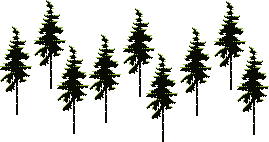
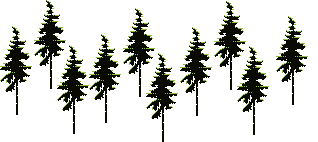
- control highlight sprites in scene

diff --git a/Assets/Scripts/Effects/LightsManager.cs b/Assets/Scripts/Effects/LightsManager.cs
@@ -1,0 +1,46 @@
+using System.Collections;
+using System.Collections.Generic;
+using UnityEngine;
+
+public class LightsManager : MonoBehaviour
+{
+    [SerializeField]
+    private List<SpriteRenderer> lights = default;
+
+    [Header("Fade Params")]
+    [SerializeField]
+    private float speed = default;
+
+    [SerializeField]
+    private float minAlpha = default;
+
+    [SerializeField]
+    private float maxAlpha = default;
+
+    [SerializeField]
+    private float offsetTime = default;
+
+    [SerializeField]
+    private bool snapAlpha = false;
+
+    [SerializeField]
+    private float snapIncrement = 0f;
+
+    private void Update()
+    {
+        float sine = (Mathf.Sin((Time.time * speed) + offsetTime) * 0.5f) + 0.5f;
+        float alpha = minAlpha + ((maxAlpha - minAlpha) * sine);
+
+        if (snapAlpha)
+        {
+            alpha = Mathf.Round(alpha / snapIncrement) * snapIncrement;
+        }
+
+        foreach (SpriteRenderer light in lights)
+        {
+            Color newColor = light.color;
+            newColor.a = alpha;
+            light.color = newColor;
+        }
+    }
+}

diff --git a/Assets/Scripts/Base/Animation/SineWaveAlpha.cs b/Assets/Scripts/Base/Animation/SineWaveAlpha.cs
@@ -1,0 +1,39 @@
+using System.Collections;
+using System.Collections.Generic;
+using UnityEngine;
+
+public class SineWaveAlpha : MonoBehaviour
+{
+    [SerializeField]
+    private float speed = default;
+
+    [SerializeField]
+    private float minAlpha = default;
+
+    [SerializeField]
+    private float maxAlpha = default;
+
+    [SerializeField]
+    private float offsetTime = default;
+
+    [SerializeField]
+    private bool snapAlpha = false;
+
+    [SerializeField]
+    private float snapIncrement = 0f;
+
+    void Update()
+    {
+        float sine = (Mathf.Sin((Time.time * speed) + offsetTime) * 0.5f) + 0.5f;
+        float alpha = minAlpha + ((maxAlpha - minAlpha) * sine);
+
+        if (snapAlpha)
+        {
+            alpha = Mathf.Round(alpha / snapIncrement) * snapIncrement;
+        }
+
+        Color newColor = GetComponent<Renderer>().material.color;
+        newColor.a = alpha;
+        GetComponent<Renderer>().material.color = newColor;
+    }
+}
